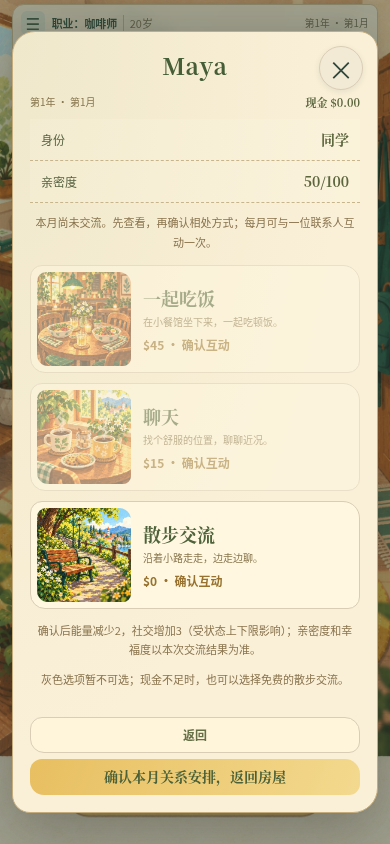
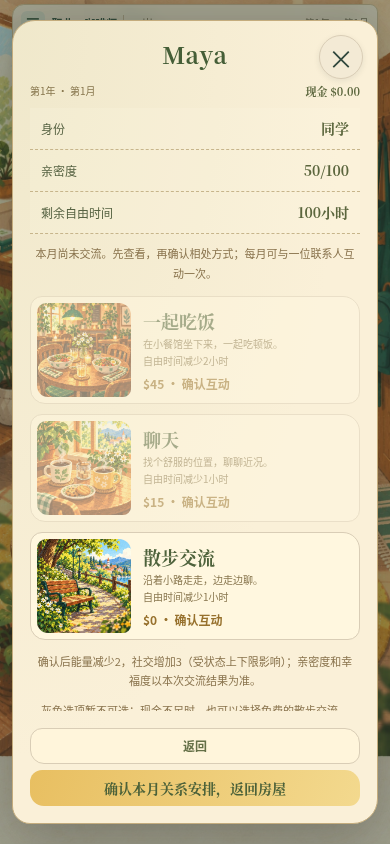
Apply confirmed social interaction time costs

diff --git a/sw.js b/sw.js
@@ -1,5 +1,5 @@
-const CACHE='wealth-life-v28.3-social1';
-const ASSETS=["./social-pages-art.js?v=28.3-social1","./social-pages-art.css?v=28.3-social1","./assets/career/social-scenes.webp","./assets/career/life-funding.webp","./life-pages-art.js?v=28.3-life-pages1","./life-pages-art.css?v=28.3-life-pages1","./assets/career/life-activities.webp","./insurance-rules.js?v=28.3-insurance1","./insurance-hub.js?v=28.3-insurance1","./insurance-hub.css?v=28.3-insurance1","./life-hub-art.js?v=28.3-life-hub1","./life-hub-art.css?v=28.3-life-hub1","./assets/career/life-arrangements.webp","./recovery-activity-guards.js?v=28.3-recovery-guard1","./pet-social-contacts.js?v=28.3-pet-simple1","./assets/career/pet-gecko-cleaning.webp","./assets/career/pet-spider-cleaning.webp","./assets/career/pet-tortoise-cleaning.webp","./assets/career/pet-chameleon-cleaning.webp","./assets/career/pet-cat-professional.webp","./assets/career/pet-cat-cleaning-scenes.webp","./pet-art-map.js?v=28.3-pet-simple1","./pet-art-map.css?v=28.3-pet-map1","./pet-page-art.js?v=28.3-pet-map1","./assets/career/pet-policy.webp","./assets/career/pet-crocodile-cleaning.webp","./assets/career/pet-crocodile-adoption.webp","./assets/career/pet-cat-adoption.webp","./pet-funds-shortage.js?v=28.3-pet-funds1","./pet-funds-shortage.css?v=28.3-pet-funds1","./pet-adoption-success.js?v=28.3-pet-map1","./pet-adoption-success.css?v=28.3-pet-success1","./assets/career/pet-adoption-success.webp","./pet-owned-hub.js?v=28.3-pet-map1","./pet-owned-hub.css?v=28.3-pet-owned1","./assets/career/pet-owned-sheet.webp","./assets/career/pet-cleaning-scenes.webp","./pet-daily-care.js?v=28.3-pet-simple1","./pet-daily-care.css?v=28.3-pet-clean-art1","./pet-adoption-art.js?v=28.3-pet-map1","./pet-adoption-art.css?v=28.3-pet-form1","./assets/career/pet-corgi-adoption.webp","./pet-selection-art.js?v=28.3-pet-entry1","./pet-selection-art.css?v=28.3-pet-center1","./assets/career/pet-selection.webp","./pet-hub-art.js?v=28.3-pet-care-label1","./pet-hub-art.css?v=28.3-pet-hub1","./assets/career/pet-hub.webp","./assets/career/home-mobile.webp","./room-arrangements.js?v=28.3-pet-map1","./map-card-data.js?v=28.3-pet-social-limit1", "./map-card-rules.js?v=28.3-mapcards1", "./map-card-system.js?v=28.3-pet-simple1", "./map-card.css?v=28.3-mapcards1", "./assets/career/map-pet-unwell.webp", "./assets/career/map-pet-injury.webp", "./assets/career/map-pet-companion.webp", "./assets/career/map-pet-social.webp", "./assets/career/map-pet-mishap.webp", "./assets/career/map-investment-studio.webp", "./assets/career/map-investment-bun-shop.webp", "./assets/career/map-investment-laundry.webp"] .concat(["./cafe-rules.js?v=28.3-manager1","./cafe-system.js?v=28.3-manager1","./career-entry.js?v=28.3-mobile-room1","./career-entry.css?v=28.3-entry2","./assets/career/shift-promotion-pending.webp","./assets/career/shift-promotion-preview.webp","./assets/career/coffee-course.webp","./pet-adoption.js?v=28.3-pet-success1","./candidate-art.js?v=28.3-candidate1","./assets/career/barista-portrait.webp","./assets/career/pet-time-shortage.webp","./assets/career/pet-funds-shortage.webp","./assets/career/pet-crocodile-care.webp","./assets/career/bank-application.webp","./assets/career/bank-payment.webp","./housing-art.js?v=28.3-housing1","./assets/career/housing-select.webp","./assets/career/housing-reserve.webp","./assets/career/living-cost.webp","./return-art.js?v=28.3-return1","./assets/career/insurance.webp","./assets/career/return-energy.webp","./assets/career/return-stress.webp","./assets/career/payday.webp","./health-art.js?v=28.3-health1","./assets/career/rest-arrange.webp","./assets/career/rest-complete.webp","./assets/career/hospital-recovery.webp","./assets/career/month-recovery.webp","./education-art.js?v=28.3-education1","./assets/career/degrees.webp","./assets/career/associate-preview.webp","./learning-art.js?v=28.3-learning1","./assets/career/learning.webp","./assets/career/management-course.webp","./assets/career/service-course.webp","./hobby-art.js?v=28.3-room2","./assets/career/hobbies.webp","./home-scene.js?v=28.3-room-unified1","./home-scene.css?v=28.3-room-unified1","./assets/career/home.webp","./release-info.js?v=28.3-internal1","./financial-crisis.js?v=28.3-internal1","./four-state.js?v=28.3-internal1","./rest-state.js?v=28.3-internal1","./coffee-salary.js?v=28.3-internal1","./housing-lease.js?v=28.3-internal1","./pet-care.js?v=28.3-pet-map1","./necessary-bills.js?v=28.3-internal1","./recovery-ui.js?v=28.3-internal1","./medical-insurance.js?v=28.3-internal1","./recovery-rules.js?v=28.3-internal1","./time-ledger.js?v=28.3-internal1","./time-flow.js?v=28.3-home-end1","./assets/career/town.webp","./coffee-career.js?v=28.3-mapcards1", "./assets/career/barista-staff.webp", "./assets/career/barista-busy.webp", "./assets/career/barista-cut.webp", "./assets/career/barista-tip.webp", "./assets/career/barista-departure.webp", "./assets/career/shift-training.webp", "./assets/career/shift-schedule.webp", "./assets/career/shift-schedule-success.webp", "./assets/career/shift-schedule-failure.webp", "./assets/career/shift-complaint.webp", "./assets/career/shift-complaint-success.webp", "./assets/career/shift-complaint-failure.webp", "./assets/career/shift-acting.webp", "./assets/career/shift-acting-success.webp", "./assets/career/shift-acting-failure.webp", "./assets/career/shift-praise.webp", "./assets/career/intro.webp"] .concat(["./shift-lead.js?v=28.3-internal1","./shift-lead.css?v=28.3-internal1","./paper.css?v=28.3-internal1",'./coffee.js?v=28.3-internal1','./town.js?v=28.3-internal1','./','./index.html','./core.js','./flow.js?v=28.3-internal1','./journey.js?v=28.3-internal1','./batch.js?v=28.3-mapcards1','./revision.js?v=28.3-internal1','./annual.js?v=28.3-internal1','./core.js?v=28.3-mapcards1','./presentation.js?v=28.3-candidate1','./presentation.css?v=28.3-internal1','./city.svg','./manifest.webmanifest','./icons/icon-192.png','./icons/icon-512.png']));
+const CACHE='wealth-life-v28.3-social-time1';
+const ASSETS=["./social-time.js?v=28.3-social-time1","./social-pages-art.js?v=28.3-social-time1","./social-pages-art.css?v=28.3-social1","./assets/career/social-scenes.webp","./assets/career/life-funding.webp","./life-pages-art.js?v=28.3-life-pages1","./life-pages-art.css?v=28.3-life-pages1","./assets/career/life-activities.webp","./insurance-rules.js?v=28.3-insurance1","./insurance-hub.js?v=28.3-insurance1","./insurance-hub.css?v=28.3-insurance1","./life-hub-art.js?v=28.3-life-hub1","./life-hub-art.css?v=28.3-life-hub1","./assets/career/life-arrangements.webp","./recovery-activity-guards.js?v=28.3-recovery-guard1","./pet-social-contacts.js?v=28.3-pet-simple1","./assets/career/pet-gecko-cleaning.webp","./assets/career/pet-spider-cleaning.webp","./assets/career/pet-tortoise-cleaning.webp","./assets/career/pet-chameleon-cleaning.webp","./assets/career/pet-cat-professional.webp","./assets/career/pet-cat-cleaning-scenes.webp","./pet-art-map.js?v=28.3-pet-simple1","./pet-art-map.css?v=28.3-pet-map1","./pet-page-art.js?v=28.3-pet-map1","./assets/career/pet-policy.webp","./assets/career/pet-crocodile-cleaning.webp","./assets/career/pet-crocodile-adoption.webp","./assets/career/pet-cat-adoption.webp","./pet-funds-shortage.js?v=28.3-pet-funds1","./pet-funds-shortage.css?v=28.3-pet-funds1","./pet-adoption-success.js?v=28.3-pet-map1","./pet-adoption-success.css?v=28.3-pet-success1","./assets/career/pet-adoption-success.webp","./pet-owned-hub.js?v=28.3-pet-map1","./pet-owned-hub.css?v=28.3-pet-owned1","./assets/career/pet-owned-sheet.webp","./assets/career/pet-cleaning-scenes.webp","./pet-daily-care.js?v=28.3-pet-simple1","./pet-daily-care.css?v=28.3-pet-clean-art1","./pet-adoption-art.js?v=28.3-pet-map1","./pet-adoption-art.css?v=28.3-pet-form1","./assets/career/pet-corgi-adoption.webp","./pet-selection-art.js?v=28.3-pet-entry1","./pet-selection-art.css?v=28.3-pet-center1","./assets/career/pet-selection.webp","./pet-hub-art.js?v=28.3-pet-care-label1","./pet-hub-art.css?v=28.3-pet-hub1","./assets/career/pet-hub.webp","./assets/career/home-mobile.webp","./room-arrangements.js?v=28.3-pet-map1","./map-card-data.js?v=28.3-pet-social-limit1", "./map-card-rules.js?v=28.3-mapcards1", "./map-card-system.js?v=28.3-pet-simple1", "./map-card.css?v=28.3-mapcards1", "./assets/career/map-pet-unwell.webp", "./assets/career/map-pet-injury.webp", "./assets/career/map-pet-companion.webp", "./assets/career/map-pet-social.webp", "./assets/career/map-pet-mishap.webp", "./assets/career/map-investment-studio.webp", "./assets/career/map-investment-bun-shop.webp", "./assets/career/map-investment-laundry.webp"] .concat(["./cafe-rules.js?v=28.3-manager1","./cafe-system.js?v=28.3-manager1","./career-entry.js?v=28.3-mobile-room1","./career-entry.css?v=28.3-entry2","./assets/career/shift-promotion-pending.webp","./assets/career/shift-promotion-preview.webp","./assets/career/coffee-course.webp","./pet-adoption.js?v=28.3-pet-success1","./candidate-art.js?v=28.3-candidate1","./assets/career/barista-portrait.webp","./assets/career/pet-time-shortage.webp","./assets/career/pet-funds-shortage.webp","./assets/career/pet-crocodile-care.webp","./assets/career/bank-application.webp","./assets/career/bank-payment.webp","./housing-art.js?v=28.3-housing1","./assets/career/housing-select.webp","./assets/career/housing-reserve.webp","./assets/career/living-cost.webp","./return-art.js?v=28.3-return1","./assets/career/insurance.webp","./assets/career/return-energy.webp","./assets/career/return-stress.webp","./assets/career/payday.webp","./health-art.js?v=28.3-health1","./assets/career/rest-arrange.webp","./assets/career/rest-complete.webp","./assets/career/hospital-recovery.webp","./assets/career/month-recovery.webp","./education-art.js?v=28.3-education1","./assets/career/degrees.webp","./assets/career/associate-preview.webp","./learning-art.js?v=28.3-learning1","./assets/career/learning.webp","./assets/career/management-course.webp","./assets/career/service-course.webp","./hobby-art.js?v=28.3-room2","./assets/career/hobbies.webp","./home-scene.js?v=28.3-room-unified1","./home-scene.css?v=28.3-room-unified1","./assets/career/home.webp","./release-info.js?v=28.3-internal1","./financial-crisis.js?v=28.3-internal1","./four-state.js?v=28.3-internal1","./rest-state.js?v=28.3-internal1","./coffee-salary.js?v=28.3-internal1","./housing-lease.js?v=28.3-internal1","./pet-care.js?v=28.3-pet-map1","./necessary-bills.js?v=28.3-internal1","./recovery-ui.js?v=28.3-internal1","./medical-insurance.js?v=28.3-internal1","./recovery-rules.js?v=28.3-internal1","./time-ledger.js?v=28.3-internal1","./time-flow.js?v=28.3-home-end1","./assets/career/town.webp","./coffee-career.js?v=28.3-mapcards1", "./assets/career/barista-staff.webp", "./assets/career/barista-busy.webp", "./assets/career/barista-cut.webp", "./assets/career/barista-tip.webp", "./assets/career/barista-departure.webp", "./assets/career/shift-training.webp", "./assets/career/shift-schedule.webp", "./assets/career/shift-schedule-success.webp", "./assets/career/shift-schedule-failure.webp", "./assets/career/shift-complaint.webp", "./assets/career/shift-complaint-success.webp", "./assets/career/shift-complaint-failure.webp", "./assets/career/shift-acting.webp", "./assets/career/shift-acting-success.webp", "./assets/career/shift-acting-failure.webp", "./assets/career/shift-praise.webp", "./assets/career/intro.webp"] .concat(["./shift-lead.js?v=28.3-internal1","./shift-lead.css?v=28.3-internal1","./paper.css?v=28.3-internal1",'./coffee.js?v=28.3-internal1','./town.js?v=28.3-internal1','./','./index.html','./core.js','./flow.js?v=28.3-internal1','./journey.js?v=28.3-internal1','./batch.js?v=28.3-mapcards1','./revision.js?v=28.3-internal1','./annual.js?v=28.3-internal1','./core.js?v=28.3-mapcards1','./presentation.js?v=28.3-candidate1','./presentation.css?v=28.3-internal1','./city.svg','./manifest.webmanifest','./icons/icon-192.png','./icons/icon-512.png']));
 self.addEventListener('install',e=>{self.skipWaiting();e.waitUntil(caches.open(CACHE).then(c=>c.addAll(ASSETS)))});
 self.addEventListener('activate',e=>e.waitUntil(Promise.all([caches.keys().then(keys=>Promise.all(keys.filter(k=>k.startsWith('wealth-life-')&&k!==CACHE).map(k=>caches.delete(k)))),self.clients.claim()])));
 // Register the cache lifetime synchronously while the fetch event is active.

diff --git a/social-pages-art.js b/social-pages-art.js
@@ -15,7 +15,7 @@
  function monthly(b){
   const r=socialRecord();if(!r){b.append(note('本月尚未交流。先查看，再确认相处方式；每月可与一位联系人互动一次。'));return;}
   const p=(state.people||[]).find(p=>(p.id||p.name)===r.person);
-  b.append(row('✓ 本月已交流',p?.name||'已记录的联系人'),row('本月交流',r.scene),note('本月交流已完成。查看联系人不会再次扣费或改变关系，下个月可以继续互动。'));
+  b.append(row('✓ 本月已交流',p?.name||'已记录的联系人'),row('本月交流',r.scene));if(Number.isFinite(r.hours))b.append(row('本次自由时间减少',r.hours+'小时'));b.append(note('本月交流已完成。查看联系人不会再次扣费或改变关系，下个月可以继续互动。'));
  }
  const networkBefore=$('networkBtn').onclick;
  $('networkBtn').onclick=function(...args){
@@ -38,17 +38,19 @@
   const result=personBefore(i),p=state.people?.[i];if(!p)return result;
   const title=p.name+' · '+relationStage(p),buttons=[...$('actions').querySelectorAll('button')],b=board(title,0);if(!b)return result;
   b.classList.add('social-person-paper');$('eventTitle').textContent=p.name+(relationStage(p)?' · '+relationStage(p):'');
-  b.append(row('身份',p.status||p.job||'已认识的人'),row('亲密度',Math.round(p.relation)+'/100'));monthly(b);
+  b.append(row('身份',p.status||p.job||'已认识的人'),row('亲密度',Math.round(p.relation)+'/100'),row('剩余自由时间',currentCareerTime().free+'小时'));monthly(b);
   const descriptions=['在小餐馆坐下来，一起吃顿饭。','找个舒服的位置，聊聊近况。','沿着小路走走，边走边聊。'];
   const options=[['确认一起吃饭 · $45','一起吃饭','$45',1],['确认聊天 · $15','聊天','$15',2],['确认散步交流 · $0','散步交流','$0',3]],list=document.createElement('div');list.className='social-option-list';
   options.forEach(([label,name,cost,s],n)=>{
    const button=buttons.find(x=>x.textContent===label);if(!button)return;const original=button.onclick,owner=state,month=state.month;
    button.onclick=function(e){if(state!==owner||state.month!==month||!b.isConnected||!state.people.includes(p))return;return original.call(this,e)};
    button.className='social-option';button.setAttribute('aria-label',label);button.dataset.socialScene=s;
-   const copy=document.createElement('span'),heading=document.createElement('strong'),desc=document.createElement('small'),price=document.createElement('b');heading.textContent=name;desc.textContent=descriptions[n];price.textContent=cost+' · 确认互动';copy.append(heading,desc,price);button.replaceChildren(scene(s),copy);list.append(button);
+   const hours=n===0?2:1;button.disabled=button.disabled||currentCareerTime().free<hours;
+   const copy=document.createElement('span'),heading=document.createElement('strong'),desc=document.createElement('small'),time=document.createElement('small'),price=document.createElement('b');heading.textContent=name;desc.textContent=descriptions[n];time.textContent='自由时间减少'+hours+'小时';price.textContent=cost+' · 确认互动';copy.append(heading,desc,time,price);button.replaceChildren(scene(s),copy);list.append(button);
   });b.append(list);
   b.append(note('确认后能量减少2，社交增加3（受状态上下限影响）；亲密度和幸福度以本次交流结果为准。'));
   if(!socialRecord()&&state.cash<45)b.append(note('灰色选项暂不可选；现金不足时，也可以选择免费的散步交流。'));
+  if(!socialRecord()&&currentCareerTime().free<2)b.append(note('自由时间不足的互动暂不可选；不会扣款或预支下个月时间。'));
   actions();return result;
  };
  const socialBefore=doSocial;
@@ -56,7 +58,7 @@
   const previous=socialRecord(),before={energy:state.energy,social:state.social,happiness:state.happiness},result=socialBefore(...args),r=socialRecord();
   if(!r||r===previous)return result;
   const kind=args[3],i=kind==='socialMeal'?1:kind==='socialCoffee'?2:3,b=board(r.scene,i,true);if(!b)return result;
-  const p=args[0];b.append(row('本次交流',p.name),row('本次已支付',priceText(r.cost)),row('能量变化',signed(state.energy-before.energy)),row('社交变化',signed(state.social-before.social)),row('幸福度变化',signed(state.happiness-before.happiness)),note('本月交流已记录。返回联系人只查看结果，不会重复付款或再次抽取结果。'));
+  const p=args[0];b.append(row('本次交流',p.name),row('本次已支付',priceText(r.cost)));if(Number.isFinite(r.hours))b.append(row('本次自由时间减少',r.hours+'小时'));b.append(row('能量变化',signed(state.energy-before.energy)),row('社交变化',signed(state.social-before.social)),row('幸福度变化',signed(state.happiness-before.happiness)),note('本月交流已记录。返回联系人只查看结果，不会重复付款或再次抽取结果。'));
   const returnButton=document.createElement('button');returnButton.textContent='返回联系人';returnButton.onclick=()=>$('networkBtn').click();$('actions').prepend(returnButton);actions();return result;
  };
  function signed(n){return(n>0?'+':'')+n;}

diff --git a/social-time.js b/social-time.js
@@ -1,0 +1,15 @@
+// User-confirmed optional interaction hours; old receipts are not charged retroactively.
+function socialInteractionHours(kind){return ({socialCoffee:1,socialWalk:1,socialMeal:2})[kind]??null;}
+(function(){
+ const timeBefore=currentCareerTime;
+ currentCareerTime=function(){const t=timeBefore(),r=state&&socialRecord(),used=Number.isFinite(r?.hours)?Math.max(0,r.hours):0;return {...t,free:Math.max(0,t.free-used),socialHours:used};};
+ const before=doSocial;
+ doSocial=function(p,cost,points,kind){
+  const hours=socialInteractionHours(kind);if(hours===null)return before(p,cost,points,kind);
+  if(socialRecord())return false;
+  if(currentCareerTime().free<hours){const i=state.people.indexOf(p);if(i>=0)openSocialPerson(i);return false;}
+  const result=before(p,cost,points,kind),r=socialRecord();
+  if(r){r.hours=hours;save();}
+  return result;
+ };
+})();

diff --git a/index.html b/index.html
@@ -617,5 +617,6 @@ window.v245OpenHousing=()=>document.getElementById('housingBtn').click();
 <link rel="stylesheet" href="life-pages-art.css?v=28.3-life-pages1">
 <script src="life-pages-art.js?v=28.3-life-pages1"></script>
 <link rel="stylesheet" href="social-pages-art.css?v=28.3-social1">
-<script src="social-pages-art.js?v=28.3-social1"></script>
+<script src="social-time.js?v=28.3-social-time1"></script>
+<script src="social-pages-art.js?v=28.3-social-time1"></script>
 </body></html>

diff --git a/qa/browser-social-pages-art.py b/qa/browser-social-pages-art.py
@@ -34,7 +34,7 @@ try:
    assert page.evaluate('state.energy')==max(0,prior['energy']-2)
    assert page.evaluate('state.social')==min(100,prior['social']+3)
    assert page.evaluate('state.people[0].relation')==min(100,prior['relation']+record['gain'])
-   assert page.evaluate('currentCareerTime().free')==prior['free']
+   assert page.evaluate('currentCareerTime().free')==prior['free']-[2,1,1][i]
    assert page.locator('.social-pages-painted').count()==1
    after=snap();page.evaluate('oldSocialConfirm({preventDefault(){},stopPropagation(){}})');assert snap()==after
    shot(['meal-result','chat-result','walk-result'][i]);layout()
@@ -46,6 +46,17 @@ try:
   # Zero cash still allows the original free walk; disabled paid cards never execute.
   reset('state.cash=0');page.locator('.social-contact').first.click();assert page.locator('.social-option:disabled').count()==2;shot('no-cash')
   page.locator('.social-option').nth(2).click();assert page.evaluate('state.cash')==0 and page.evaluate('socialRecord().cost')==0
+  # Exactly one hour allows chat/walk but not dinner. Changed time is rechecked at confirmation.
+  reset('state.petCareTime={month:state.month,hours:currentCareerTime().free-1}')
+  page.locator('.social-contact').first.click();assert page.locator('.social-option').nth(0).is_disabled();assert page.locator('.social-option').nth(1).is_enabled()
+  assert '自由时间减少1小时' in page.locator('.social-option').nth(1).inner_text()
+  page.evaluate('state.petCareTime.hours+=1');prior=snap();page.locator('.social-option').nth(1).click();assert snap()==prior;assert page.evaluate('socialRecord()') is None
+  reset('state.petCareTime={month:state.month,hours:currentCareerTime().free-1}')
+  page.locator('.social-contact').first.click();page.locator('.social-option').nth(2).click();assert page.evaluate('currentCareerTime().free')==0
+  page.evaluate('state.month+=1');assert page.evaluate('currentCareerTime().free')>0
+  # Existing saves with an old completed interaction keep their budget and monthly limit.
+  reset('state.socialMonth={month:state.month,person:state.people[0].id||state.people[0].name,scene:"旧交流",cost:15,gain:5}')
+  free=page.evaluate('currentCareerTime().free');page.locator('.social-contact').first.click();assert page.locator('.social-option:disabled').count()==3;assert page.evaluate('currentCareerTime().free')==free
   # Failure uses the original failed-interaction outcome, including its happiness loss.
   reset('Math.random=()=>.999');page.locator('.social-contact').first.click();happiness=page.evaluate('state.happiness');page.locator('.social-option').nth(0).click();assert page.evaluate('socialRecord().success') is False;assert page.evaluate('state.happiness')==happiness-2
   assert '对话很快结束' in page.locator('.social-paper').inner_text();shot('failure')
@@ -60,8 +71,8 @@ try:
   reset();before=page.evaluate('({cash:state.cash,people:JSON.stringify(state.people)})');page.get_by_role('button',name='确认本月关系安排，返回房屋',exact=True).click();assert page.evaluate('roomChecks().social.confirmed') is True;assert page.evaluate('state.cash')==before['cash'];assert page.evaluate('JSON.stringify(state.people)')==before['people']
   assert not errors,errors;context.close()
   # Install actual SW and reopen the relationship page offline with the new image.
-  context=browser.new_context(viewport={'width':390,'height':844});page=context.new_page();page.goto(f'http://127.0.0.1:{server.server_port}',wait_until='networkidle');page.evaluate('navigator.serviceWorker.ready');page.reload(wait_until='networkidle');page.wait_for_function('navigator.serviceWorker.controller!==null');assert page.evaluate('caches.keys()')==['wealth-life-v28.3-social1']
+  context=browser.new_context(viewport={'width':390,'height':844});page=context.new_page();page.goto(f'http://127.0.0.1:{server.server_port}',wait_until='networkidle');page.evaluate('navigator.serviceWorker.ready');page.reload(wait_until='networkidle');page.wait_for_function('navigator.serviceWorker.controller!==null');assert page.evaluate('caches.keys()')==['wealth-life-v28.3-social-time1']
   context.set_offline(True);page.reload(wait_until='networkidle');page.get_by_role('button',name='查看职业预览',exact=True).click();page.get_by_role('button',name='选择这个人生',exact=True).click();page.evaluate('roomOpenArrangement("social")');assert page.locator('.social-contact').count()>0
   assert page.evaluate('new Promise((resolve,reject)=>{const i=new Image;i.onload=()=>resolve(i.naturalWidth);i.onerror=reject;i.src="assets/career/social-scenes.webp"})')>0
-  context.close();browser.close();result={'passed':True,'interactions':results,'checks':['saved contacts and new acquaintances; no invented people','browsing no costs, effects, time or checks','three original payments and monthly guard, repeat/reload and capped relation','original failure description and loss retained','free walk at zero cash','stale detached/month/save callbacks blocked','recovery redirect and empty contacts','explicit room acknowledgement without interaction','320/390/desktop centered without horizontal overflow','real service worker and offline art'],'pageErrors':errors,'limits':['isolated Chromium, not real phone','existing social time gap remains, no new hours added']};Path('qa/browser-evidence/social-pages-art.json').write_text(json.dumps(result,ensure_ascii=False,indent=2)+'\n');print(json.dumps(result,ensure_ascii=False,indent=2))
+  context.close();browser.close();result={'passed':True,'interactions':results,'checks':['saved contacts and new acquaintances; no invented people','browsing no costs, effects, time or checks','three original payments and monthly guard, repeat/reload and capped relation','confirmed1/1/2 hours, time changed after preview, exact zero, next month and old receipt compatibility','original failure description and loss retained','free walk at zero cash','stale detached/month/save callbacks blocked','recovery redirect and empty contacts','explicit room acknowledgement without interaction','320/390/desktop centered without horizontal overflow','real service worker and offline art'],'pageErrors':errors,'limits':['isolated Chromium, not real phone','only confirmed room interaction hours added; other activity proposals unchanged']};Path('qa/browser-evidence/social-pages-art.json').write_text(json.dumps(result,ensure_ascii=False,indent=2)+'\n');print(json.dumps(result,ensure_ascii=False,indent=2))
 finally:server.shutdown();server.server_close()

diff --git a/CODEX_HANDOFF.md b/CODEX_HANDOFF.md
@@ -1,5 +1,7 @@
 # 财富人生 Wealth Life — Codex 接手说明
 
+最新逐项规则（2026-10-26）：用户明确确认聊天1h、散步1h、吃饭2h，见 [互动耗时确认](docs/confirmed/social-interactions-2026-10-26.md)。已接social-time.js及卡片文案、资源不足门禁/执行再检查和当月回执扣时；不追扣旧已完成交流，读档不重复、次月清除占时。43个Node测试及真实关系浏览器/离线检查通过，缓存 `wealth-life-v28.3-social-time1`。只确认耗时，费用/月限/关系效果仍须逐项核对，不擅自采用其他耗时草案。本地未上传。
+
 最新（2026-10-26）：用户已明确“确认”修正后的生活绘本画风，见 [画风确认](docs/confirmed/illustration-style-2026-10-26.md)，覆盖下方“待视觉核对”。继续后已完成房屋关系的联系人/三项基础互动/原结果手绘页面，先读 [关系页检查点](progress/social-pages-art-2026-10-26.md)。保留原45/15/0、每月一次、实际原随机关系/幸福结果和康复门禁；不增朋友、不定人像/性别、不加耗时。74生产图，缓存 `wealth-life-v28.3-social1`，42个Node测试及实际关系浏览器/离线检查通过，非真机。关系新页面待用户核对；本地未上传。
 
 最新风格修正（2026-10-26）：用户指出生活新图偏写实，已同意改回原画风。先读 [生活插画风格修正](progress/life-style-correction-2026-10-26.md)。已用原房屋/宠物主画作明确参考，重画九场景图集和缺款钱包，恢复原圆脸简单五官、丸子头黑衣米裤、厚涂暖黄墨绿；旧图和旧截图归档保留。仅替换两张同名图，不改玩法JS/CSS或存档规则。资源仍73，缓存 `wealth-life-v28.3-life-style1`。资源清单及九项真实浏览器/离线检查通过，非真机；重画结果待用户视觉核对。仅本地未上传。

diff --git a/NEXT_SESSION.md b/NEXT_SESSION.md
@@ -1,5 +1,7 @@
 # 新会话接手
 
+最新逐项规则（2026-10-26）：用户明确确认聊天1h、散步1h、吃饭2h，见 [互动耗时确认](docs/confirmed/social-interactions-2026-10-26.md)。已接social-time.js及卡片文案、资源不足门禁/执行再检查和当月回执扣时；不追扣旧已完成交流，读档不重复、次月清除占时。43个Node测试及真实关系浏览器/离线检查通过，缓存 `wealth-life-v28.3-social-time1`。只确认耗时，费用/月限/关系效果仍须逐项核对，不擅自采用其他耗时草案。本地未上传。
+
 最新（2026-10-26）：用户已明确“确认”修正后的生活绘本画风，见 [画风确认](docs/confirmed/illustration-style-2026-10-26.md)，覆盖下方“待视觉核对”。继续后已完成房屋关系的联系人/三项基础互动/原结果手绘页面，先读 [关系页检查点](progress/social-pages-art-2026-10-26.md)。保留原45/15/0、每月一次、实际原随机关系/幸福结果和康复门禁；不增朋友、不定人像/性别、不加耗时。74生产图，缓存 `wealth-life-v28.3-social1`，42个Node测试及实际关系浏览器/离线检查通过，非真机。关系新页面待用户核对；本地未上传。
 
 最新风格修正（2026-10-26）：用户指出生活新图偏写实，已同意改回原画风。先读 [生活插画风格修正](progress/life-style-correction-2026-10-26.md)。已用原房屋/宠物主画作明确参考，重画九场景图集和缺款钱包，恢复原圆脸简单五官、丸子头黑衣米裤、厚涂暖黄墨绿；旧图和旧截图归档保留。仅替换两张同名图，不改玩法JS/CSS或存档规则。资源仍73，缓存 `wealth-life-v28.3-life-style1`。资源清单及九项真实浏览器/离线检查通过，非真机；重画结果待用户视觉核对。仅本地未上传。

diff --git a/docs/confirmed/social-interactions-2026-10-26.md b/docs/confirmed/social-interactions-2026-10-26.md
@@ -1,0 +1,11 @@
+# 关系逐项确认：互动耗时（2026-10-26）
+
+用户要求一个个确定关系规则。第一项明确选择“可以，按1／1／2小时”：聊天消耗1小时自由时间，散步交流消耗1小时自由时间，一起吃饭消耗2小时自由时间。
+
+仅确认此项。费用、每月互动次数、关系/幸福效果等此次没有重新确定，继续沿当前实现；接下来应逐项核对，不能把旧代码数值全记为用户新确认。
+
+已接入social-time.js：确认成功（包括原交流不顺利结果）后在当月socialMonth回执记录hours，currentCareerTime从原剩余时间中减去一次，与课程/休息/宠物/事件扣时叠加；预览、时间不足、付款失败和重复回调不扣。无欠时/预支。读档保留，次月原记录不再占时；旧已完成回执未记录hours时不追扣。
+
+交互卡片显示“自由时间减少1/2小时”和当前剩余时间，时间不足选项停用，执行时再次检查；结果和本月汇总显示已用时间。其他活动耗时草案没有因此采用。
+
+43个Node测试和实际关系浏览器/离线检查通过，包括1小时可聊天/散步不可吃饭、预览后时间耗尽不扣款、刚好用完、重复/读档/次月和旧回执兼容。非真机。缓存wealth-life-v28.3-social-time1，仅本地未上传。

diff --git a/progress/social-pages-art-2026-10-26.md b/progress/social-pages-art-2026-10-26.md
@@ -1,5 +1,7 @@
 # 关系页插画与原互动接入（2026-10-26）
 
+后续覆盖：用户已单独确认聊天1h、散步1h、吃饭2h并接入，见 [互动耗时确认](../docs/confirmed/social-interactions-2026-10-26.md)。下方“未采用耗时”的描述为此前状态，其他旧规则未获本轮新确认。
+
 用户确认修正后的绘本风并要求继续。接续房屋七项，推进“关系”：实际联系人列表、三种基础互动、原交流结果和本月已完成状态；没有重建游戏、迁移或清除存档。
 
 ## 画面
